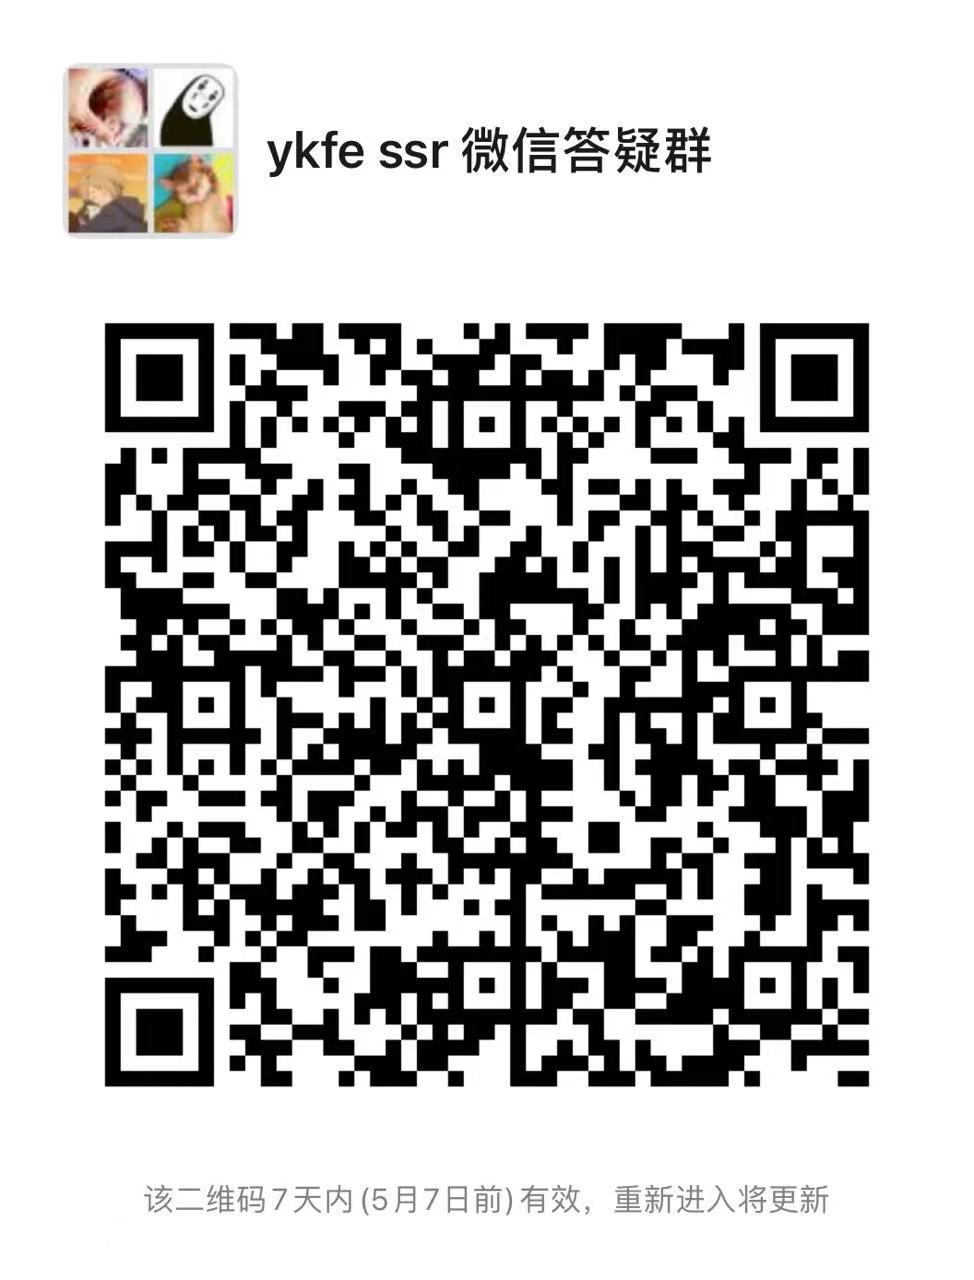
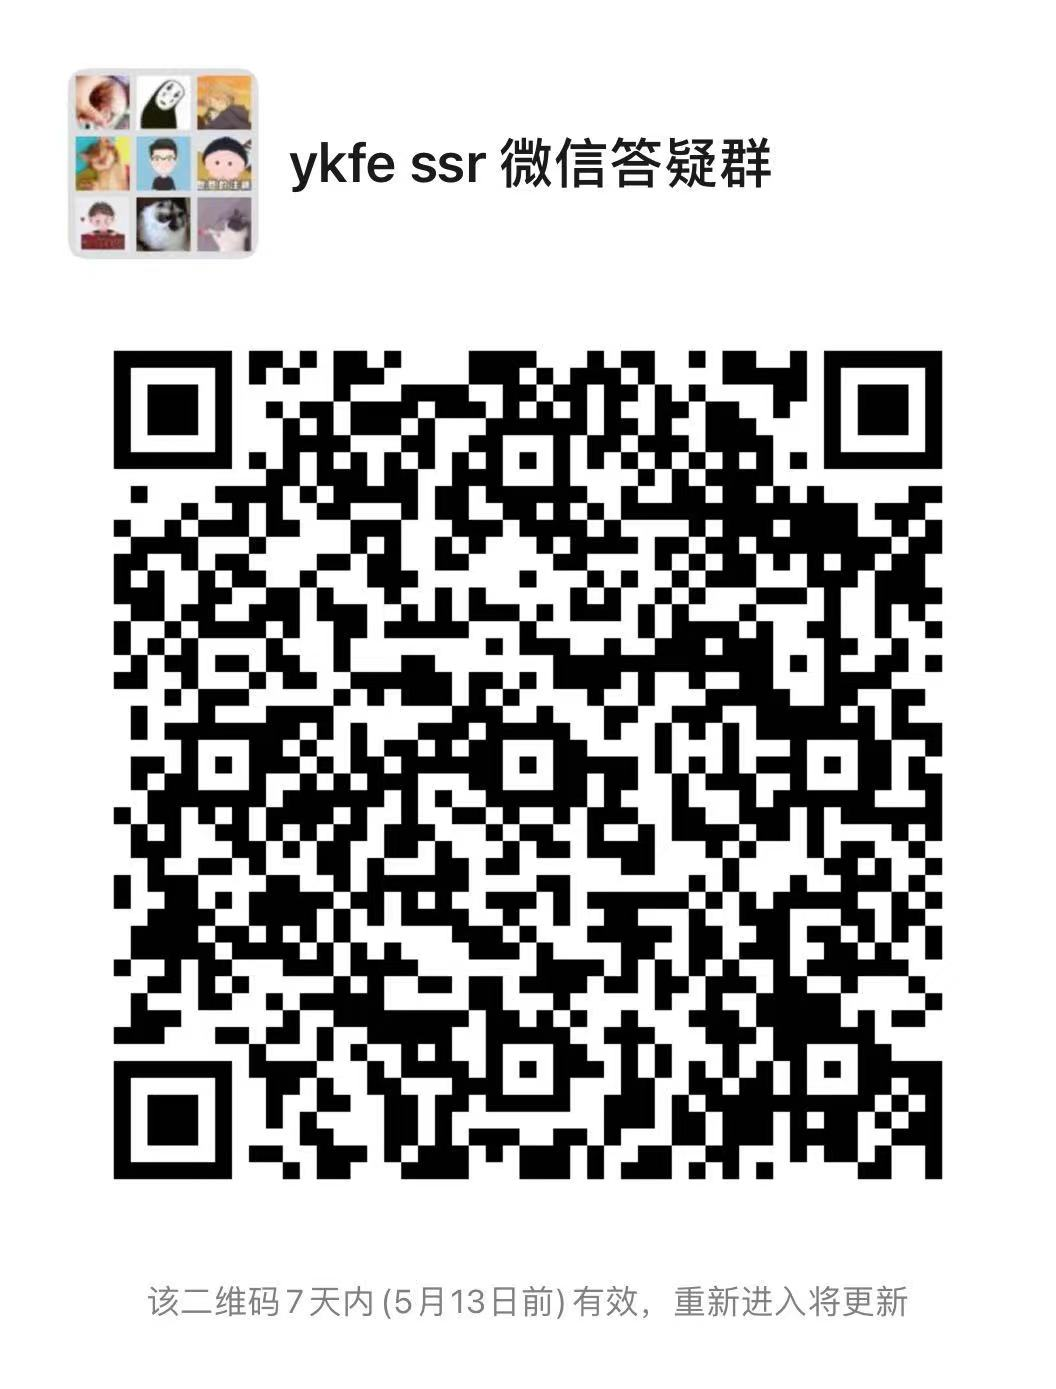
docs: update qrcode.md

diff --git a/README.md b/README.md
@@ -183,7 +183,7 @@
 
 <div style="display:flex">
 <img src="https://res.wx.qq.com/op_res/rrhdxU0o2yUdgTjwgkAgO-CSFV-lArvMYzWzxl2SuvnKkcWECv7SXswEYjk2pPcDcL43r0kz_MIp_fsxPPqQ2Q" width="300">
-<img src="https://res.wx.qq.com/op_res/EIaN-0tJ8viSyr_xLrYu82RlVB903fPesnIIkKy0TgYhtdQi2s7Tv_sC99oLM98yjsLovDwHFL3V8MoXQogtZg" width="300">
+<img src="https://res.wx.qq.com/op_res/_i6In6fC16I--IKIPRqrhHlCL89pbRbsHkkSEBAcI23Tn5Kpu3RjVzoEetjbC--yjwdhJjbPwflS8W9-rgjH6g" width="300">
 </div>
 
 ## 项目 Star 数增长趋势

diff --git a/docs/web/markdown/features/issue.md b/docs/web/markdown/features/issue.md
@@ -12,5 +12,5 @@
 
 <div style="display:flex">
   <img src="https://res.wx.qq.com/op_res/rrhdxU0o2yUdgTjwgkAgO-CSFV-lArvMYzWzxl2SuvnKkcWECv7SXswEYjk2pPcDcL43r0kz_MIp_fsxPPqQ2Q" style="width:300px">
-  <img src="https://res.wx.qq.com/op_res/EIaN-0tJ8viSyr_xLrYu82RlVB903fPesnIIkKy0TgYhtdQi2s7Tv_sC99oLM98yjsLovDwHFL3V8MoXQogtZg" style="width:300px">
+  <img src="https://res.wx.qq.com/op_res/_i6In6fC16I--IKIPRqrhHlCL89pbRbsHkkSEBAcI23Tn5Kpu3RjVzoEetjbC--yjwdhJjbPwflS8W9-rgjH6g" style="width:300px">
 </div>
